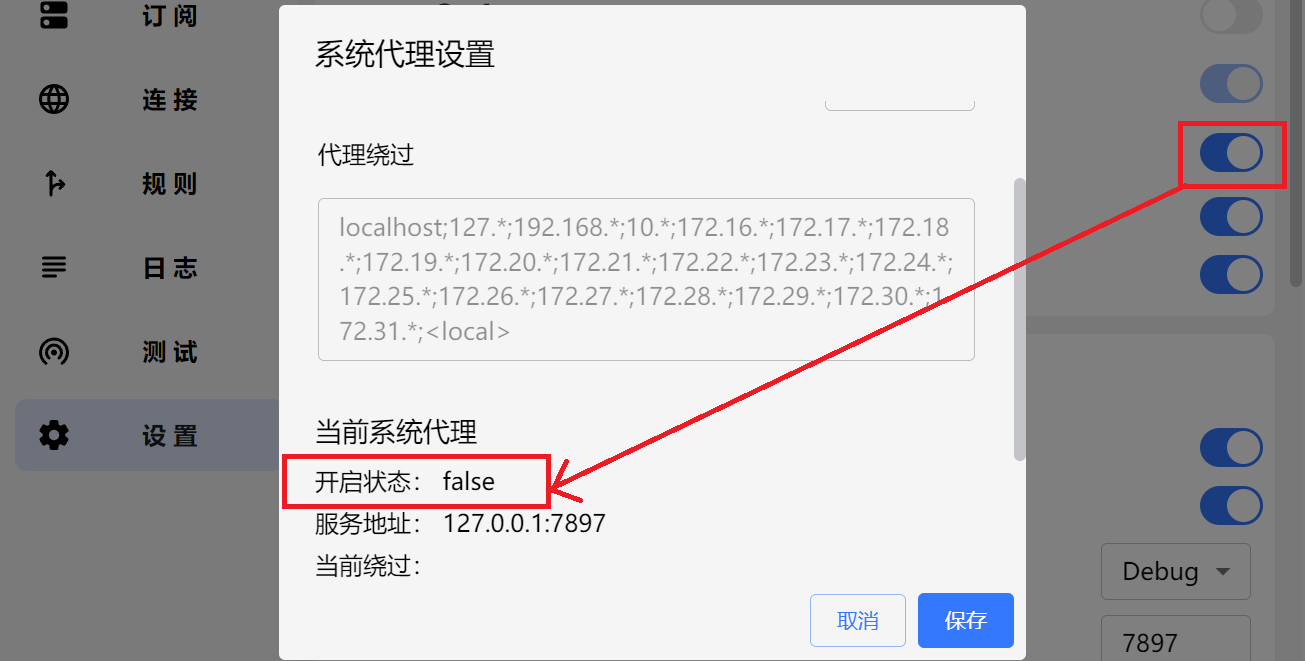
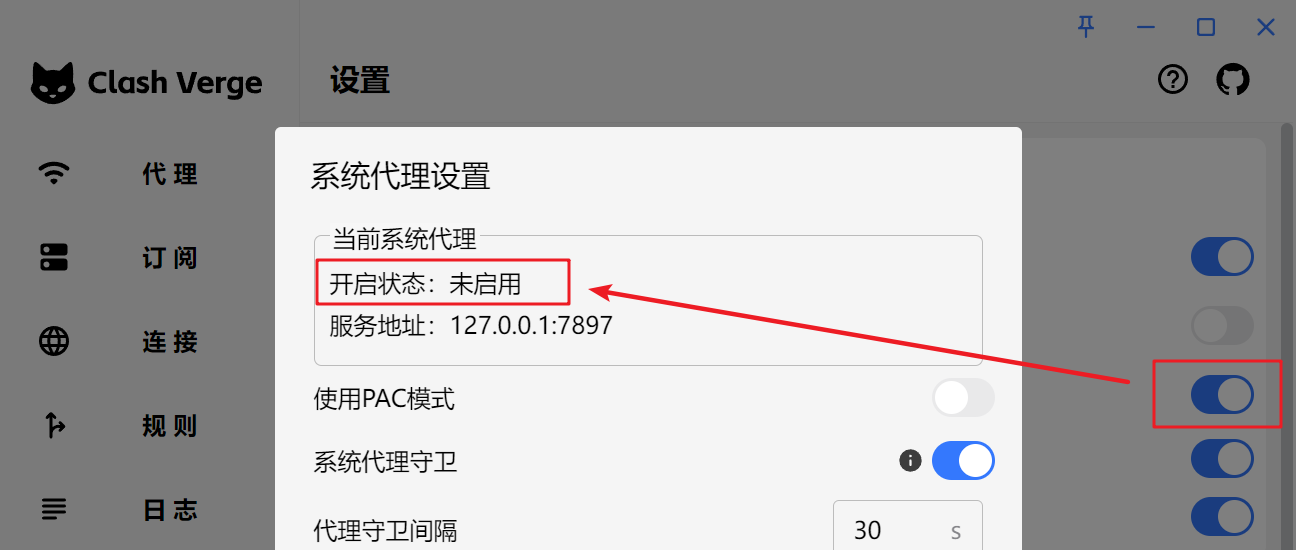
typo: ui

diff --git a/docs/friendship.md b/docs/friendship.md
@@ -17,17 +17,17 @@
 
 ## 其他内核客户端
 
-| 客户端                                                                     | 内核        | 平台                                                                                                                                                                                                      | 正式版                                                                                                                                                           | 测试版                                                                                                                                                                                                 |
-| -------------------------------------------------------------------------- | ----------- | --------------------------------------------------------------------------------------------------------------------------------------------------------------------------------------------------------- | ---------------------------------------------------------------------------------------------------------------------------------------------------------------- | ------------------------------------------------------------------------------------------------------------------------------------------------------------------------------------------------------ |
-| [Hiddify](https://github.com/hiddify/hiddify-next)                         | sing-box    | <img width="32" src="./assets/icons/microsoft.svg" /><img width="32" src="./assets/icons/linux.svg" /><img width="32" src="./assets/icons/macos.svg" /><img width="32" src="./assets/icons/android.svg"/> | <a href='https://github.com/hiddify/hiddify-next/releases/latest'><img src="https://img.shields.io/github/v/release/hiddify/hiddify-next"></a>                   | <a href='https://github.com/hiddify/hiddify-next/releases'><img src="https://img.shields.io/github/v/release/hiddify/hiddify-next?include_prereleases&label=测试版&color=green"></a>                   |
-| [NekoBoxForAndroid](https://github.com/MatsuriDayo/NekoBoxForAndroid)      | sing-box    | <img width="32" src="./assets/icons/android.svg"/>                                                                                                                                                        | <a href='https://github.com/MatsuriDayo/NekoBoxForAndroid/releases/latest'><img src="https://img.shields.io/github/v/release/MatsuriDayo/NekoBoxForAndroid"></a> | <a href='https://github.com/MatsuriDayo/NekoBoxForAndroid/releases'><img src="https://img.shields.io/github/v/release/MatsuriDayo/NekoBoxForAndroid?include_prereleases&label=测试版&color=green"></a> |
-| [v2rayNG](https://github.com/2dust/v2rayNG)                                | Xray、v2fly | <img width="32" src="./assets/icons/android.svg"/><a href="https://play.google.com/store/apps/details?id=com.v2ray.ang"><img width="32" src="./assets/icons/google_play.svg"/></a>                        | <a href='https://github.com/2dust/v2rayNG/releases/latest'><img src="https://img.shields.io/github/v/release/2dust/v2rayNG"></a>                                 | <a href='https://github.com/2dust/v2rayNG/releases'><img src="https://img.shields.io/github/v/release/2dust/v2rayNG?include_prereleases&label=测试版&color=green"></a>                                 |
-| [surfboard](https://github.com/getsurfboard/surfboard)                     |             | <img width="32" src="./assets/icons/android.svg"/>                                                                                                                                                        | <a href='https://github.com/getsurfboard/surfboard/releases/latest'><img src="https://img.shields.io/github/v/release/getsurfboard/surfboard"></a>               |                                                                                                                                                                                                        |
-| [Shadowrocket](https://apps.apple.com/us/app/shadowrocket/id932747118)     |             | <a href="https://apps.apple.com/us/app/shadowrocket/id932747118"><img width="32" src="./assets/icons/app_store.svg"/></a>                                                                                 | 付费下载，买断制<br />需要非国区 Apple ID                                                                                                                        |                                                                                                                                                                                                        |
-| [Surge 5](https://apps.apple.com/us/app/surge-5/id1442620678)              |             | <a href="https://apps.apple.com/us/app/surge-5/id1442620678"><img width="32" src="./assets/icons/app_store.svg"/></a>                                                                                     | 应用内购，订阅制<br />需要非国区 Apple ID                                                                                                                        |                                                                                                                                                                                                        |
-| [Loon](https://apps.apple.com/us/app/loon/id1373567447)                    |             | <a href="https://apps.apple.com/us/app/loon/id1373567447"><img width="32" src="./assets/icons/app_store.svg"/></a>                                                                                        | 付费下载，买断制<br />需要非国区 Apple ID                                                                                                                        |                                                                                                                                                                                                        |
-| [Quantumult X](https://apps.apple.com/us/app/quantumult-x/id1443988620)    |             | <a href="https://apps.apple.com/us/app/quantumult-x/id1443988620"><img width="32" src="./assets/icons/app_store.svg"/></a>                                                                                | 付费下载，买断制<br />需要非国区 Apple ID                                                                                                                        |                                                                                                                                                                                                        |
-| [Stash](https://apps.apple.com/us/app/stash-rule-based-proxy/id1596063349) |             | <a href="https://apps.apple.com/us/app/stash-rule-based-proxy/id1596063349"><img width="32" src="./assets/icons/app_store.svg"/></a>                                                                      | 付费下载，买断制<br />需要非国区 Apple ID                                                                                                                        |                                                                                                                                                                                                        |
+| 客户端                                                                     | 内核        | 平台                                                                                                                                                                                                      | 正式版                                                                                                                                                                        | 测试版                                                                                                                                                                                                 |
+| -------------------------------------------------------------------------- | ----------- | --------------------------------------------------------------------------------------------------------------------------------------------------------------------------------------------------------- | ----------------------------------------------------------------------------------------------------------------------------------------------------------------------------- | ------------------------------------------------------------------------------------------------------------------------------------------------------------------------------------------------------ |
+| [Hiddify](https://github.com/hiddify/hiddify-next)                         | sing-box    | <img width="32" src="./assets/icons/microsoft.svg" /><img width="32" src="./assets/icons/linux.svg" /><img width="32" src="./assets/icons/macos.svg" /><img width="32" src="./assets/icons/android.svg"/> | <a href='https://github.com/hiddify/hiddify-next/releases/latest'><img src="https://img.shields.io/github/v/release/hiddify/hiddify-next?label=正式版"></a>                   | <a href='https://github.com/hiddify/hiddify-next/releases'><img src="https://img.shields.io/github/v/release/hiddify/hiddify-next?include_prereleases&label=测试版&color=green"></a>                   |
+| [NekoBoxForAndroid](https://github.com/MatsuriDayo/NekoBoxForAndroid)      | sing-box    | <img width="32" src="./assets/icons/android.svg"/>                                                                                                                                                        | <a href='https://github.com/MatsuriDayo/NekoBoxForAndroid/releases/latest'><img src="https://img.shields.io/github/v/release/MatsuriDayo/NekoBoxForAndroid?label=正式版"></a> | <a href='https://github.com/MatsuriDayo/NekoBoxForAndroid/releases'><img src="https://img.shields.io/github/v/release/MatsuriDayo/NekoBoxForAndroid?include_prereleases&label=测试版&color=green"></a> |
+| [v2rayNG](https://github.com/2dust/v2rayNG)                                | Xray、v2fly | <img width="32" src="./assets/icons/android.svg"/><a href="https://play.google.com/store/apps/details?id=com.v2ray.ang"><img width="32" src="./assets/icons/google_play.svg"/></a>                        | <a href='https://github.com/2dust/v2rayNG/releases/latest'><img src="https://img.shields.io/github/v/release/2dust/v2rayNG?label=正式版"></a>                                 | <a href='https://github.com/2dust/v2rayNG/releases'><img src="https://img.shields.io/github/v/release/2dust/v2rayNG?include_prereleases&label=测试版&color=green"></a>                                 |
+| [surfboard](https://github.com/getsurfboard/surfboard)                     |             | <img width="32" src="./assets/icons/android.svg"/>                                                                                                                                                        | <a href='https://github.com/getsurfboard/surfboard/releases/latest'><img src="https://img.shields.io/github/v/release/getsurfboard/surfboard?label=正式版"></a>               |                                                                                                                                                                                                        |
+| [Shadowrocket](https://apps.apple.com/us/app/shadowrocket/id932747118)     |             | <a href="https://apps.apple.com/us/app/shadowrocket/id932747118"><img width="32" src="./assets/icons/app_store.svg"/></a>                                                                                 | 付费下载，买断制<br />需要非国区 Apple ID                                                                                                                                     |                                                                                                                                                                                                        |
+| [Surge 5](https://apps.apple.com/us/app/surge-5/id1442620678)              |             | <a href="https://apps.apple.com/us/app/surge-5/id1442620678"><img width="32" src="./assets/icons/app_store.svg"/></a>                                                                                     | 应用内购，订阅制<br />需要非国区 Apple ID                                                                                                                                     |                                                                                                                                                                                                        |
+| [Loon](https://apps.apple.com/us/app/loon/id1373567447)                    |             | <a href="https://apps.apple.com/us/app/loon/id1373567447"><img width="32" src="./assets/icons/app_store.svg"/></a>                                                                                        | 付费下载，买断制<br />需要非国区 Apple ID                                                                                                                                     |                                                                                                                                                                                                        |
+| [Quantumult X](https://apps.apple.com/us/app/quantumult-x/id1443988620)    |             | <a href="https://apps.apple.com/us/app/quantumult-x/id1443988620"><img width="32" src="./assets/icons/app_store.svg"/></a>                                                                                | 付费下载，买断制<br />需要非国区 Apple ID                                                                                                                                     |                                                                                                                                                                                                        |
+| [Stash](https://apps.apple.com/us/app/stash-rule-based-proxy/id1596063349) |             | <a href="https://apps.apple.com/us/app/stash-rule-based-proxy/id1596063349"><img width="32" src="./assets/icons/app_store.svg"/></a>                                                                      | 付费下载，买断制<br />需要非国区 Apple ID                                                                                                                                     |                                                                                                                                                                                                        |
 
 ## 参考文档
 

diff --git a/docs/faq/windows.md b/docs/faq/windows.md
@@ -129,7 +129,7 @@ net start hns
 
 ## Windows 宽带拨号无法使用系统代理
 
-> Windows 的 `Windows 设置` -> `网络和 Internet` -> `代理` 中显示系统代理已经开启，且指向了正确的端口。Clash Verge Rev 的 `设置` -> `系统代理` 小齿轮界面中，却显示当前系统代理的开启状态为 false。
+> Windows 的 `Windows 设置` -> `网络和 Internet` -> `代理` 中显示系统代理已经开启，且指向了正确的端口。Clash Verge Rev 的 `设置` -> `系统代理` 小齿轮界面中，当前系统代理的开启状态却显示为未启用。
 
 | ![系统代理状态为false](../assets/faq/windows/sysproxy_enabled.png) | ![系统代理状态为false](../assets/faq/windows/sysproxy_states_false.png) |
 | ------------------------------------------------------------------ | ----------------------------------------------------------------------- |

diff --git a/docs/guide/merge.md b/docs/guide/merge.md
@@ -62,6 +62,7 @@ append-proxy-groups: []
 - 网站 `www.baidu.com`， 走节点 `🇯🇵6日本-东部优化(hy2)` 。
 - 网站 `www.google.com`， 走节点 `🇰🇷9韩国-全网优化(hy2)` 。
 - 网站 `www.youtube.com`， 走策略组 `♻自动选择` 。
+- 网站 `www.bilibili.com`，走直连策略组 `DIRECT` 。
 - 网段 `10.11.12.0/24`，走直连策略组 `DIRECT` 。
 
 ```yaml
@@ -69,6 +70,7 @@ prepend-rules:
   - DOMAIN-SUFFIX,baidu.com,🇯🇵6日本-东部优化(hy2)
   - DOMAIN-SUFFIX,google.com,🇰🇷9韩国-全网优化(hy2)
   - DOMAIN-SUFFIX,youtube.com,♻自动选择
+  - DOMAIN-SUFFIX,bilibili.com,DIRECT
   - IP-CIDR,10.11.12.0/24,DIRECT,no-resolve
 
 prepend-proxies: []

diff --git a/docs/guide/bypass.md b/docs/guide/bypass.md
@@ -53,4 +53,5 @@ rules:
   - DOMAIN-SUFFIX,baidu.com,流量出口名称
 ```
 
-规则配置请参考 [规则配置文档](https://wiki.metacubex.one/config/rules/)。
+- 规则配置请参考 [规则配置文档](https://wiki.metacubex.one/config/rules/)。
+- 使用方法请参考 [Merge 配置文档](./merge.md)。
